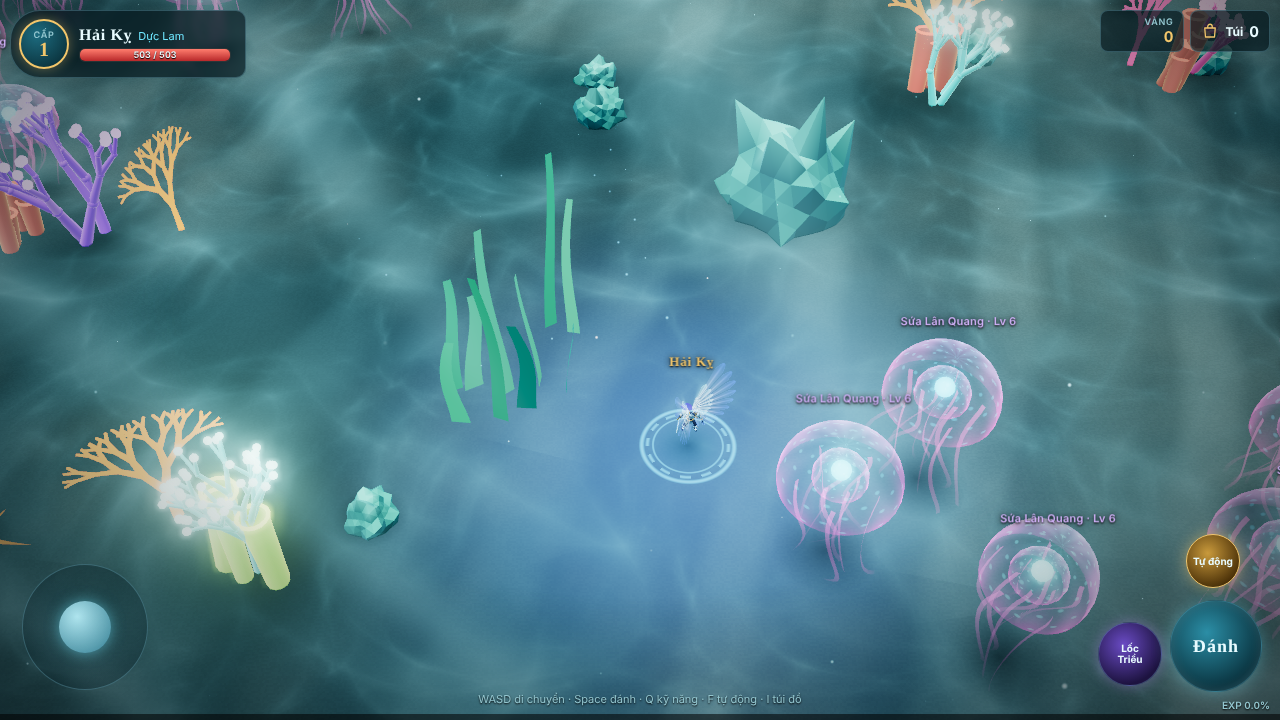
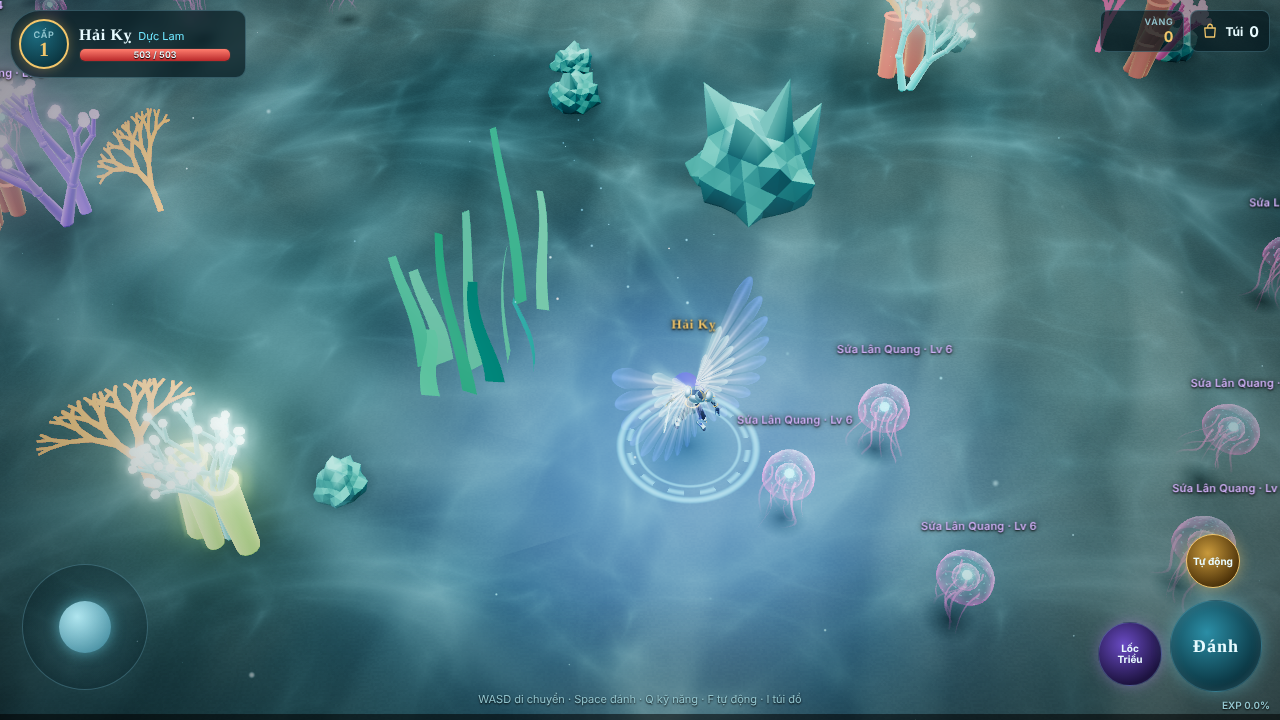
Double hero size and rescale mobs, ranges and effects to match
Claude-Session: https://claude.ai/code/session_019JwWWoX9XVnj9TTcGWtfgR

diff --git a/game/demo-day-bien/index.html b/game/demo-day-bien/index.html
@@ -611,10 +611,10 @@ function updateParticles(dt) {
 const hero = { pos: new THREE.Vector3(0, 0, 4), face: Math.PI, hp: 500, maxHp: 500, lv: 1, exp: 0, gold: 0, items: 0, atkT: 0, atkCd: 0, skillCd: 0, skillT: 0 };
 const heroG = new THREE.Group(); scene.add(heroG);
 const heroBody = new THREE.Group(); heroG.add(heroBody);
-const heroBlob = blob(1.0); scene.add(heroBlob);
+const heroBlob = blob(1.5); scene.add(heroBlob);
 // Hero: Quaternius UAL mannequin (CC0) for skeleton + animations, with an original ornate armor set built in code
 const mixer = { m: null, acts: {}, cur: null };
-const HERO_SCALE = 0.25;               // the user asked for a hero 4x smaller than before
+const HERO_SCALE = 0.5;                // half the original size (user tuned: 1/4, then x2)
 const HERO_H = 2.3 * HERO_SCALE;       // world height of the armored hero
 const heroMats = {
   suit: stylized({ color: 0x141c38, roughness: 0.75 }, 0x5d7dff, 0.25, 3),
@@ -809,7 +809,7 @@ const auraMat = new THREE.ShaderMaterial({
       float glow = smoothstep(0.9, 0.0, r) * 0.25;
       gl_FragColor = vec4(uC * (ring + runes + glow) * 0.9, 1.0); }`
 });
-const aura = new THREE.Mesh(new THREE.PlaneGeometry(1.5, 1.5).rotateX(-Math.PI / 2), auraMat);
+const aura = new THREE.Mesh(new THREE.PlaneGeometry(2.2, 2.2).rotateX(-Math.PI / 2), auraMat);
 aura.position.y = 0.04; scene.add(aura);
 
 // slash arc effect
@@ -825,10 +825,10 @@ const slashMat = new THREE.ShaderMaterial({
       float fade = 1.0 - smoothstep(0.65, 1.0, uT);
       gl_FragColor = vec4((uC * band * 1.6 + vec3(1.0) * core * 2.5) * trail * fade, 1.0); }`
 });
-const slash = new THREE.Mesh(new THREE.PlaneGeometry(4.6, 4.6).rotateX(-Math.PI / 2), slashMat);
+const slash = new THREE.Mesh(new THREE.PlaneGeometry(3.2, 3.2).rotateX(-Math.PI / 2), slashMat);
 slash.visible = false; scene.add(slash);
 const skillMat = slashMat.clone(); skillMat.uniforms.uC.value = new THREE.Color(0xb98cff);
-const skillRing = new THREE.Mesh(new THREE.PlaneGeometry(9.5, 9.5).rotateX(-Math.PI / 2), skillMat);
+const skillRing = new THREE.Mesh(new THREE.PlaneGeometry(6.4, 6.4).rotateX(-Math.PI / 2), skillMat);
 skillRing.visible = false; scene.add(skillRing);
 
 // ---------- mobs ----------
@@ -912,8 +912,8 @@ function makeFish() {
 }
 
 const MOB_TYPES = {
-  jelly: { name: 'Sứa Lân Quang', hp: 70, exp: 14, color: '#d7b6ff', y: 1.5, speed: 0.9, lv: [3, 6], make: makeJelly },
-  fish: { name: 'Cá Gai Hỏa', hp: 110, exp: 22, color: '#ffc89a', y: 0.7, speed: 1.4, lv: [5, 8], make: makeFish }
+  jelly: { name: 'Sứa Lân Quang', hp: 70, exp: 14, color: '#d7b6ff', y: 0.95, size: 0.5, speed: 0.9, lv: [3, 6], make: makeJelly },
+  fish: { name: 'Cá Gai Hỏa', hp: 110, exp: 22, color: '#ffc89a', y: 0.45, size: 0.65, speed: 1.4, lv: [5, 8], make: makeFish }
 };
 const mobs = [];
 const zones = [
@@ -935,9 +935,9 @@ function spawnAll() { for (const z of zones) for (let i = 0; i < z.n; i++) {
   const v = T.make();
   const lv = ri(T.lv[0], T.lv[1]);
   const [x, zz] = spawnPos(z);
-  const m = { ...v, T, zone: z, lv, maxHp: Math.round(T.hp * (1 + (lv - 3) * 0.15)), hp: 0, x, z: zz, tx: x, tz: zz, face: rr(0, 6.28), state: 'idle', wait: rr(0, 3), flash: 0, dead: 0, respawn: 0, aggro: false, atkCd: 0, phase: rr(0, 6.28), scale: z.kind === 'fish' ? rr(0.9, 1.15) : rr(0.85, 1.2) };
+  const m = { ...v, T, zone: z, lv, maxHp: Math.round(T.hp * (1 + (lv - 3) * 0.15)), hp: 0, x, z: zz, tx: x, tz: zz, face: rr(0, 6.28), state: 'idle', wait: rr(0, 3), flash: 0, dead: 0, respawn: 0, aggro: false, atkCd: 0, phase: rr(0, 6.28), scale: T.size * (z.kind === 'fish' ? rr(0.9, 1.15) : rr(0.85, 1.2)) };
   m.hp = m.maxHp;
-  m.shadow = blob(z.kind === 'fish' ? 1.6 : 1.3); scene.add(m.shadow);
+  m.shadow = blob((z.kind === 'fish' ? 1.6 : 1.3) * T.size); scene.add(m.shadow);
   m.label = makeLabel(`${T.name} · Lv ${lv}`, T.color);
   scene.add(m.group);
   mobs.push(m);
@@ -1228,7 +1228,7 @@ function heroDamage(mult) { const st = hero.st; const crit = rand() < st.crit / 
 function hitMob(m, dmg, crit) {
   if (m.dead) return;
   m.hp -= dmg; m.flash = 1; m.aggro = true;
-  const y = m.T.y * m.scale + 0.9;
+  const y = m.T.y + 0.6;
   floatText(m.x, y, m.z, dmg, crit ? 'crit' : '');
   burst(m.x, m.T.y, m.z, crit ? 16 : 8, new THREE.Color(m.kind === 'jelly' ? 0xd7a6ff : 0xffb070), 4, 0.35, 0.5);
   if (m.hp <= 0) killMob(m);
@@ -1257,15 +1257,15 @@ function attack() {
   if (hero.atkCd > 0) return;
   hero.atkCd = 0.6; hero.atkT = 0.001; fadeTo('Sword_Attack', 0.06, true, 1.6);
   slash.visible = true; slashMat.uniforms.uT.value = 0;
-  slash.position.set(hero.pos.x, heroG.position.y + 0.9, hero.pos.z);
+  slash.position.set(hero.pos.x, heroG.position.y + HERO_H * 0.5, hero.pos.z);
   slash.rotation.y = hero.face - Math.PI / 2;
   setTimeout(() => {
     for (const m of mobs) {
       if (m.dead) continue;
       const dx = m.x - hero.pos.x, dz = m.z - hero.pos.z, d = Math.hypot(dx, dz);
-      if (d > 2.6) continue;
+      if (d > 1.7) continue;
       let da = Math.atan2(dx, dz) - hero.face; da = Math.atan2(Math.sin(da), Math.cos(da));
-      if (Math.abs(da) < 1.25 || d < 0.9) { const [dmg, c] = heroDamage(1.0); hitMob(m, dmg, c); }
+      if (Math.abs(da) < 1.25 || d < 0.6) { const [dmg, c] = heroDamage(1.0); hitMob(m, dmg, c); }
     }
   }, 120);
 }
@@ -1273,10 +1273,10 @@ function skill() {
   if (hero.skillCd > 0) return;
   hero.skillCd = 6; hero.skillT = 0.001; fadeTo('Spell_Simple_Shoot', 0.08, true, 1.4);
   skillRing.visible = true; skillMat.uniforms.uT.value = 0;
-  skillRing.position.set(hero.pos.x, 0.6, hero.pos.z);
+  skillRing.position.set(hero.pos.x, heroG.position.y + HERO_H * 0.4, hero.pos.z);
   for (let i = 0; i < 70; i++) { const a = rr(0, 6.28), s = rr(4, 9); emit(hero.pos.x, 1, hero.pos.z, Math.cos(a) * s, rr(0, 2), Math.sin(a) * s, new THREE.Color(i % 3 ? 0xb98cff : 0x7fe9ff), 0.45, 0.7, 0, 0.9); }
   setTimeout(() => {
-    for (const m of mobs) { if (m.dead) continue; if (Math.hypot(m.x - hero.pos.x, m.z - hero.pos.z) < 4.6) { const [dmg, c] = heroDamage(2.2); hitMob(m, dmg, c); } }
+    for (const m of mobs) { if (m.dead) continue; if (Math.hypot(m.x - hero.pos.x, m.z - hero.pos.z) < 3.0) { const [dmg, c] = heroDamage(2.2); hitMob(m, dmg, c); } }
   }, 180);
 }
 
@@ -1301,10 +1301,10 @@ function updateHero(dt, t) {
     if (target) {
       const dx = target.x - hero.pos.x, dz = target.z - hero.pos.z, d = Math.hypot(dx, dz);
       if (target.loot) { if (d > 0.3) { mx = dx / d; mz = dz / d; mag = 1; } }
-      else if (d > 1.9) { mx = dx / d; mz = dz / d; mag = 1; }
+      else if (d > 1.2) { mx = dx / d; mz = dz / d; mag = 1; }
       else {
         hero.face = Math.atan2(dx, dz);
-        let near = 0; for (const m of mobs) if (!m.dead && Math.hypot(m.x - hero.pos.x, m.z - hero.pos.z) < 4.2) near++;
+        let near = 0; for (const m of mobs) if (!m.dead && Math.hypot(m.x - hero.pos.x, m.z - hero.pos.z) < 2.8) near++;
         if (near >= 2 && hero.skillCd <= 0) skill(); else attack();
       }
     }
@@ -1319,7 +1319,7 @@ function updateHero(dt, t) {
     let da = want - hero.face; da = Math.atan2(Math.sin(da), Math.cos(da)); hero.face += da * Math.min(1, dt * 10);
   }
   const moving = mag > 0.12;
-  heroG.position.set(hero.pos.x, 0.35 + Math.sin(t * 2.2) * 0.06, hero.pos.z);
+  heroG.position.set(hero.pos.x, 0.55 + Math.sin(t * 2.2) * 0.1, hero.pos.z);
   heroG.rotation.y = hero.face;
   heroBody.rotation.x = lerp(heroBody.rotation.x, moving ? 0.22 : 0.0, dt * 5);
   // wings flap
@@ -1380,7 +1380,7 @@ function updateMobs(dt, t) {
     let moving = false;
     if (m.aggro) {
       if (dh > 14) m.aggro = false;
-      else if (dh > 1.6) { m.tx = hero.pos.x; m.tz = hero.pos.z; moving = true; }
+      else if (dh > 1.0) { m.tx = hero.pos.x; m.tz = hero.pos.z; moving = true; }
       else {
         m.face = Math.atan2(hero.pos.x - m.x, hero.pos.z - m.z);
         m.atkCd -= dt;
@@ -1407,7 +1407,7 @@ function updateMobs(dt, t) {
     let y = m.T.y;
     if (m.kind === 'jelly') {
       const pulse = Math.sin(t * 2.6 + m.phase);
-      y += Math.sin(t * 1.3 + m.phase) * 0.25 + pulse * 0.08;
+      y += Math.sin(t * 1.3 + m.phase) * 0.12 + pulse * 0.04;
       m.bell.scale.set(1 + pulse * 0.08, 1 - pulse * 0.12, 1 + pulse * 0.08);
       m.mats[0].uniforms.uFlash.value = m.flash;
       g.rotation.set(Math.sin(t * 0.9 + m.phase) * 0.12, t * 0.3 + m.phase, Math.cos(t * 0.8 + m.phase) * 0.12);
@@ -1453,7 +1453,7 @@ function updateLabels() {
   };
   for (const m of mobs) {
     if (m.dead) continue;
-    place(m.label.el, m.x, m.T.y * m.scale + (m.kind === 'jelly' ? 0.95 : 0.85), m.z);
+    place(m.label.el, m.x, m.T.y + (m.kind === 'jelly' ? 1.0 : 0.85) * m.scale + 0.15, m.z);
     m.label.hpEl.style.visibility = m.hp < m.maxHp ? 'visible' : 'hidden';
     m.label.bar.style.transform = `scaleX(${m.hp / m.maxHp})`;
   }
@@ -1506,7 +1506,7 @@ function frame() {
   shafts.position.set(hero.pos.x * 0.6, 0, hero.pos.z * 0.6);
   // camera
   const portrait = innerHeight > innerWidth;
-  const dist = (portrait ? 1.25 : 1) * (PREVIEW ? 0.2 : 1);
+  const dist = (portrait ? 1.25 : 1) * (PREVIEW ? 0.35 : 1);
   if (PREVIEW) hero.face = 0;
   camTarget.set(hero.pos.x, 1.0, hero.pos.z);
   camPos.set(hero.pos.x, 11.5 * dist, hero.pos.z + 10 * dist);

diff --git a/claude/handoff-nghien-cuu-ban-dau.md b/claude/handoff-nghien-cuu-ban-dau.md
@@ -204,3 +204,6 @@ nâng cấp +1…+15 phát sáng, auto-hunt, lưu game.
   Phát sáng theo cấp: +7 xanh, +10 vàng, +13 tím (vũ khí, giáp, hạt sáng quanh kiếm); màu cánh theo độ hiếm.
   Nút "Mặc đồ tốt nhất", bán đồ, túi đầy thì tự bán. Lưu bằng localStorage (`vuclam-save-v1`) mỗi 5 giây.
   Phím I mở túi. Ảnh: `screenshot-tui-do.png`, `screenshot-nhan-vat.png`.
+- **Cập nhật kích thước:** người dùng xem xong yêu cầu x2 → `HERO_SCALE = 0.5` (cao ~1,15 đơn vị). Quái đồng bộ theo
+  bằng `size` trong `MOB_TYPES` (sứa 0.5, cá gai 0.65); độ cao bay, tầm đánh (1.7), tầm kỹ năng (3.0), khoảng cách
+  quái tấn công (1.0), vệt chém, vòng kỹ năng, hào quang và bóng cũng thu nhỏ tương ứng.
